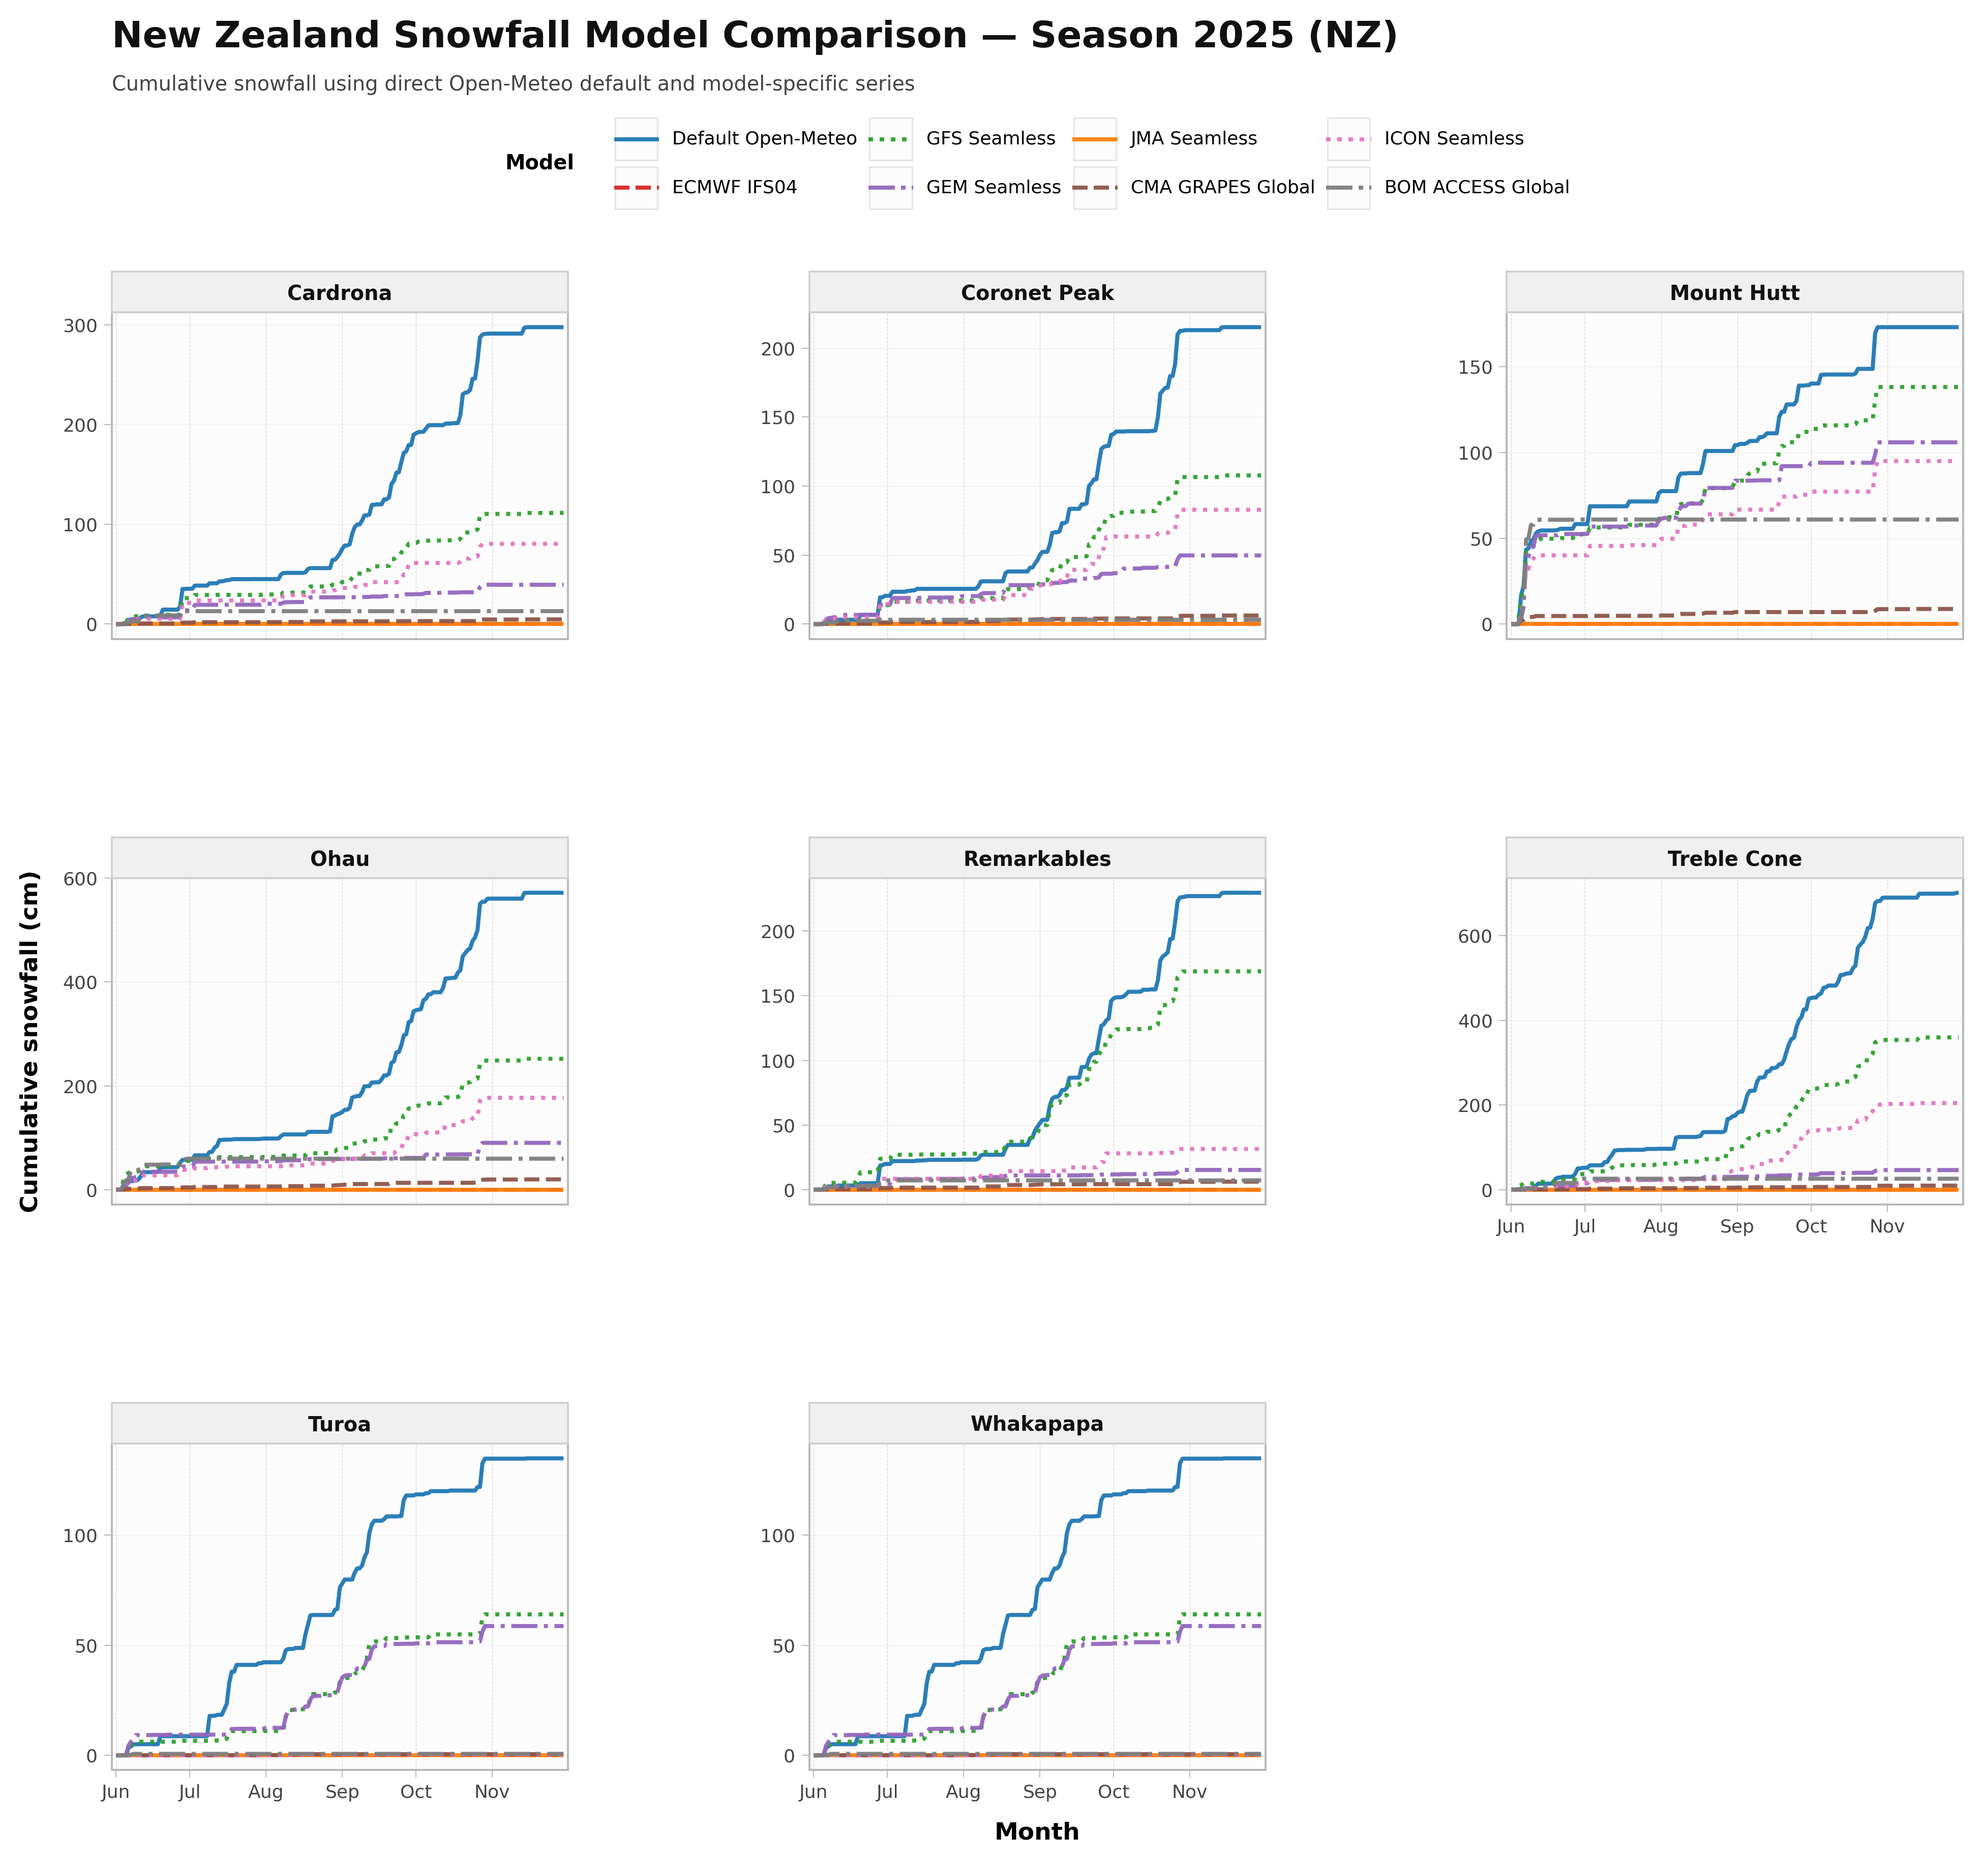
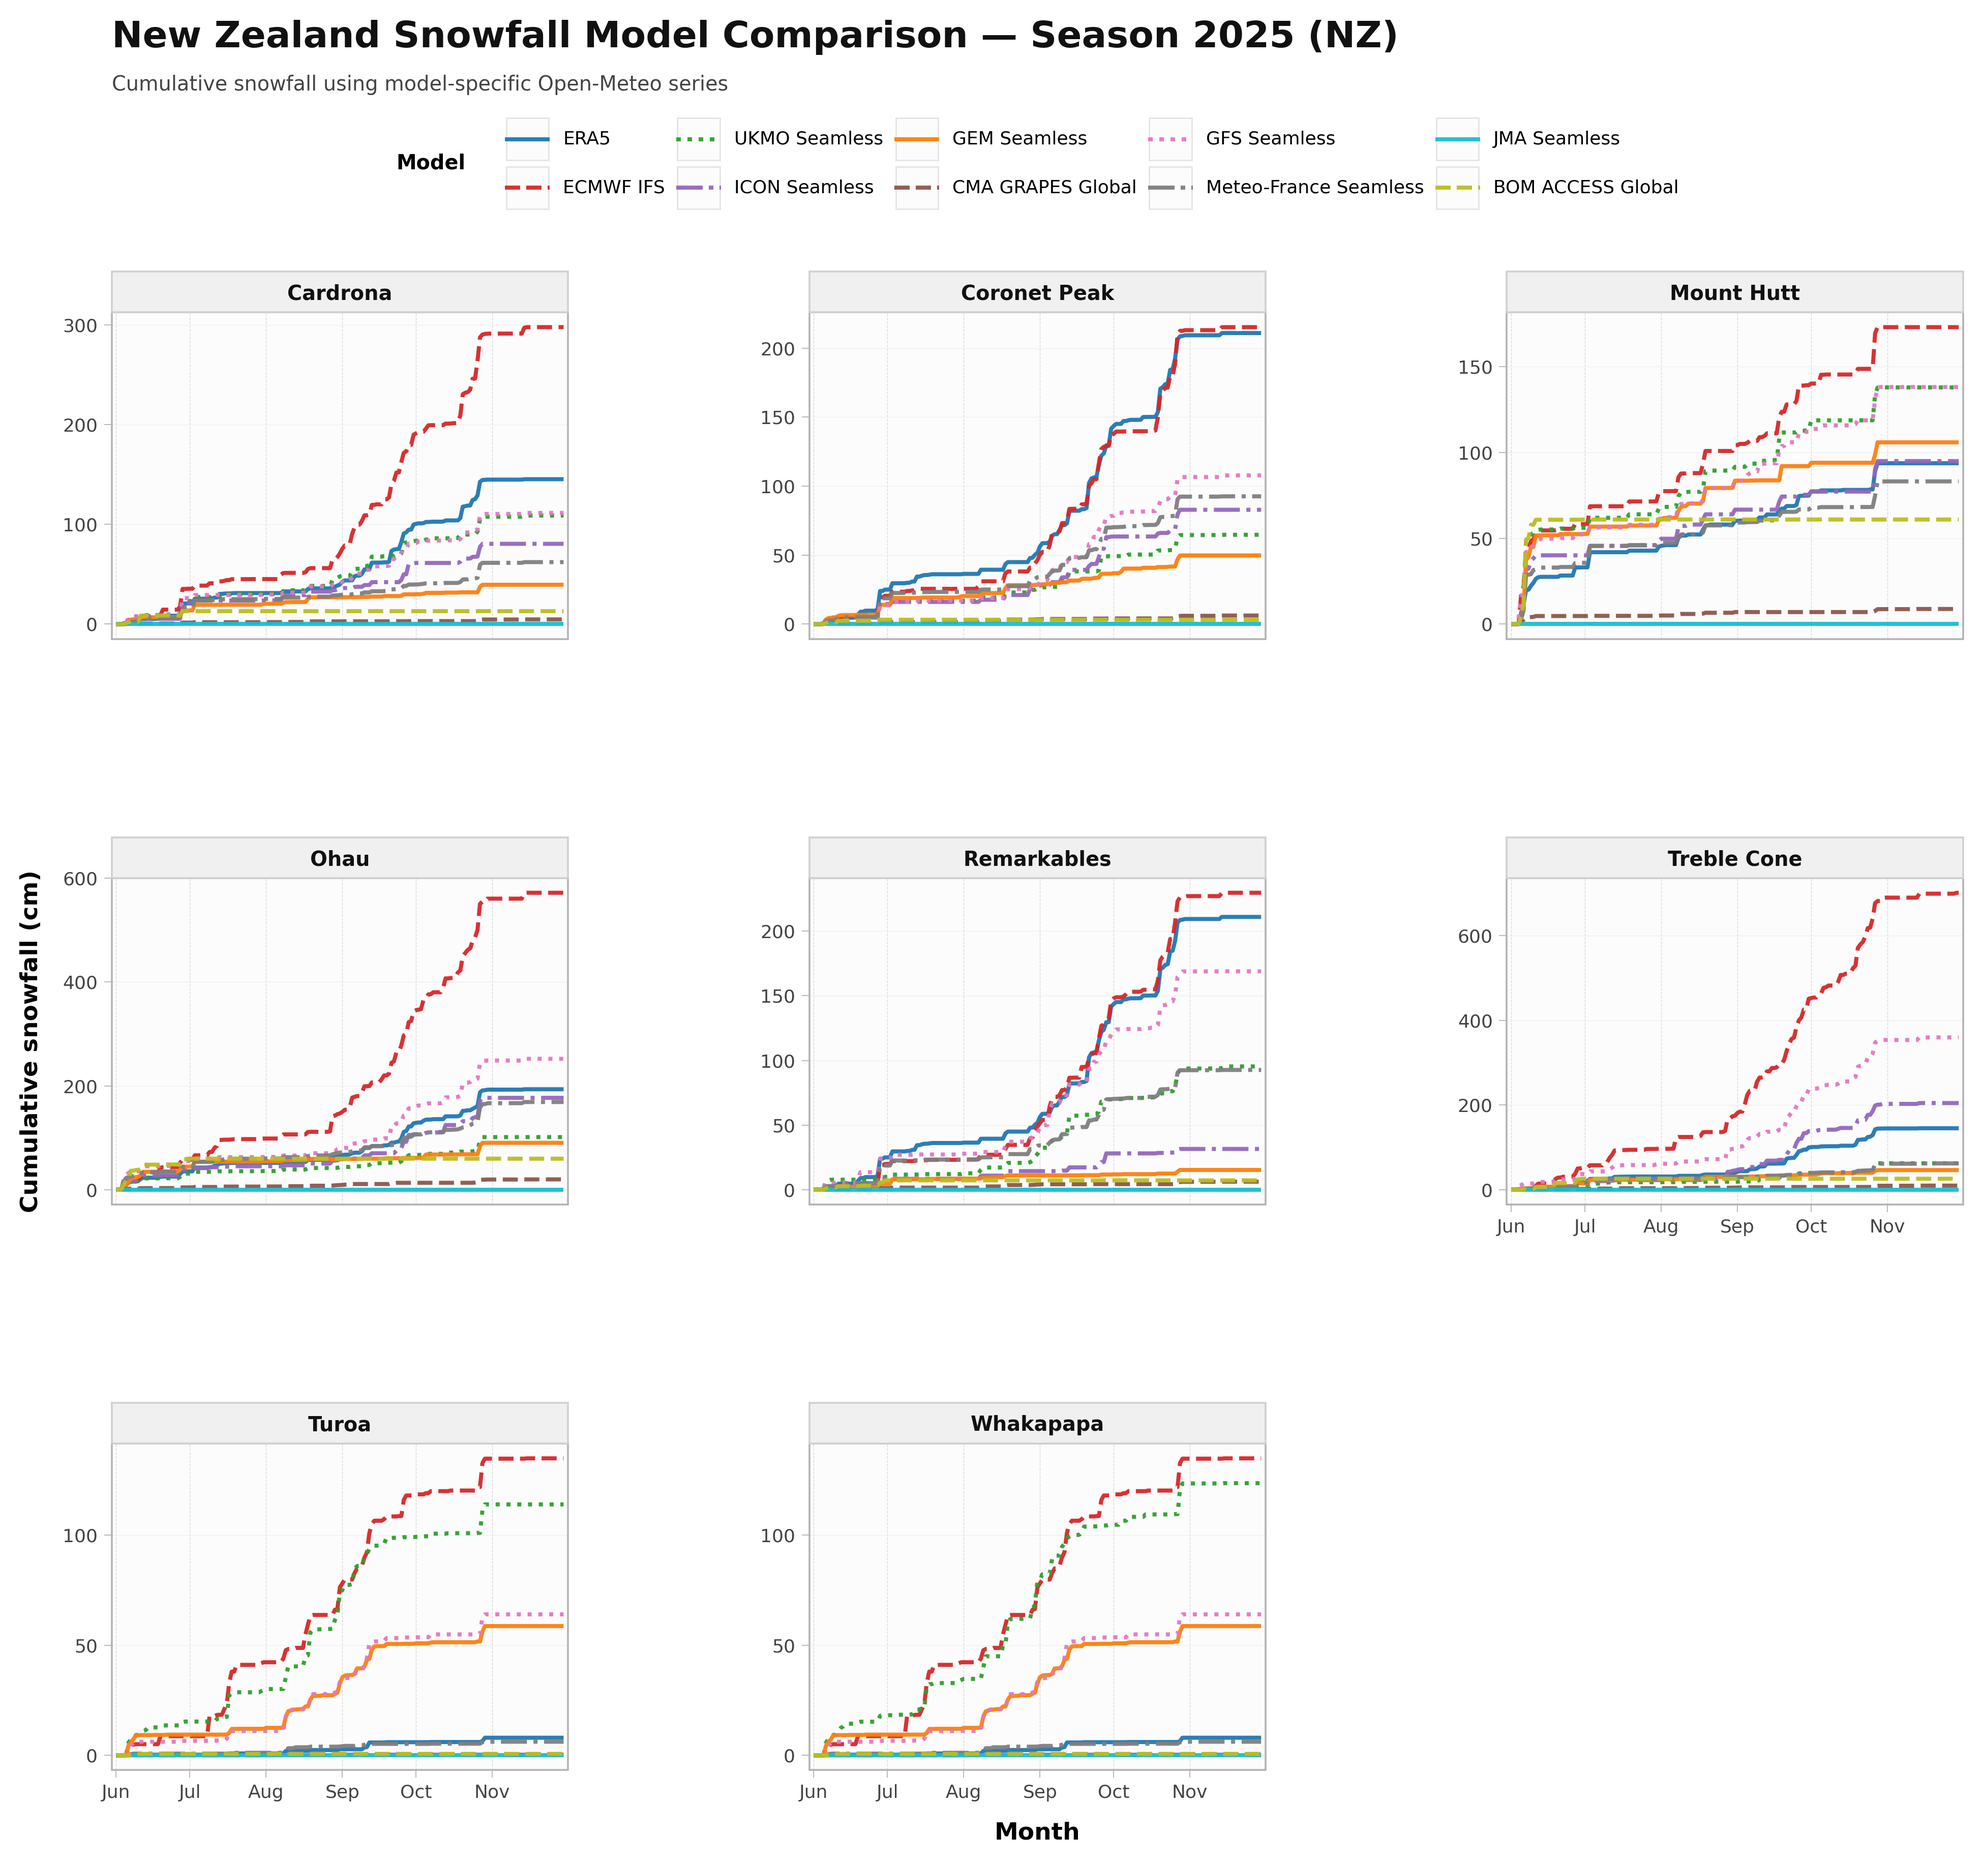
Adding in era5 model for comparison

diff --git a/pipelines/snowfall_dlt.py b/pipelines/snowfall_dlt.py
@@ -82,12 +82,14 @@ START_DATE = date(2023, 11, 1)
 BATCH_SIZE = 500  # Number of rows to yield at once
 
 GLOBAL_COMPARISON_MODELS = [
-    "ecmwf_ifs04", # European Centre for Medium-Range Weather Forecasts (ECMWF) Integrated Forecasting System (IFS) 0.4° grid
-    "gfs_seamless", # US Model 25km grid
-    "gem_seamless", # German Model 25km grid
-    "cma_grapes_global", # China Meteorological Administration (CMA) GRAPES Global 0.25° grid
-    "icon_seamless", # German Weather Service (DWD) ICON Seamless 0.0625° grid
-
+    "era5",  # Reanalysis gold standard for long-term consistency
+    "ecmwf_ifs",  # Native ECMWF HRES model (~9 km)
+    "ukmo_seamless",  # UK Met Office Unified Model (~10 km)
+    "icon_seamless",  # German Model (~11 km)
+    "gem_seamless",  # Canadian Model (~15 km)
+    "cma_grapes_global",  # Chinese Model (~15 km)
+    "gfs_seamless",  # US Model (~25 km)
+    "meteofrance_seamless",  # French ARPEGE Model (~25 km)
 ]
 
 COUNTRY_MODEL_PRIORITY = {
@@ -341,7 +343,7 @@ def snowfall_source(logger: logging.Logger, dataset, run_from_date: date | None 
 
         today = date.today()
         today_str = str(today)
-        end_date = today - timedelta(days=2)
+        end_date = today - timedelta(days=5)
         state["Daily_Requests"] = {today_str: state.get("Daily_Requests", {}).get(today_str, 0)}
 
         # Reset Daily_default to only today

diff --git a/scripts/cumulative_snow_compare.py b/scripts/cumulative_snow_compare.py
@@ -42,13 +42,15 @@ COUNTRY_MONTH_ORDER = {
 }
 
 MODEL_DISPLAY_ORDER = [
-    "Default Open-Meteo",
-    "ECMWF IFS04",
-    "GFS Seamless",
-    "GEM Seamless",
-    "JMA Seamless",
-    "CMA GRAPES Global",
+    "ERA5",
+    "ECMWF IFS",
+    "UKMO Seamless",
     "ICON Seamless",
+    "GEM Seamless",
+    "CMA GRAPES Global",
+    "GFS Seamless",
+    "Meteo-France Seamless",
+    "JMA Seamless",
     "BOM ACCESS Global",
 ]
 
@@ -212,7 +214,7 @@ def main(selected_countries: list[str] | None = None):
             + facet_wrap("~ski_field", scales="free_y", ncol=ncol)
             + labs(
                 title=f"{COUNTRY_LABELS.get(country, country)} Snowfall Model Comparison — Season {latest_year} ({country})",
-                subtitle="Cumulative snowfall using direct Open-Meteo default and model-specific series",
+                subtitle="Cumulative snowfall using model-specific Open-Meteo series",
                 x="Month",
                 y="Cumulative snowfall (cm)",
                 color="Model",
